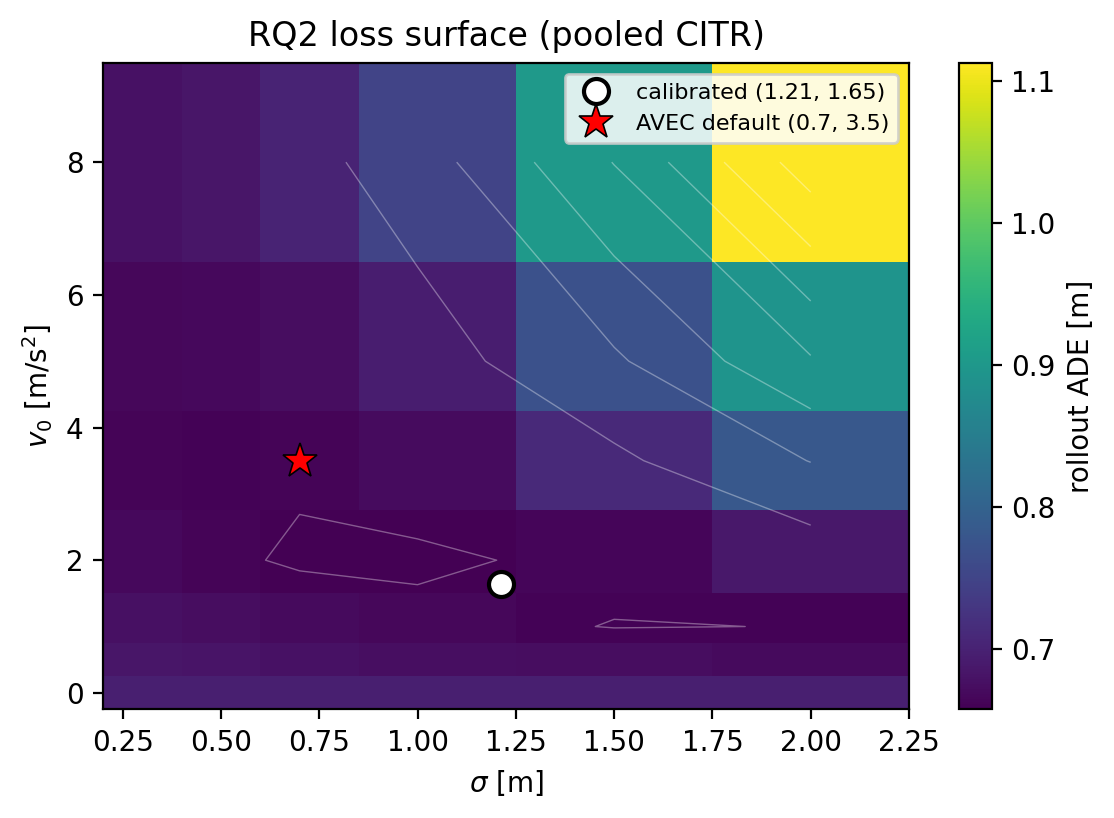
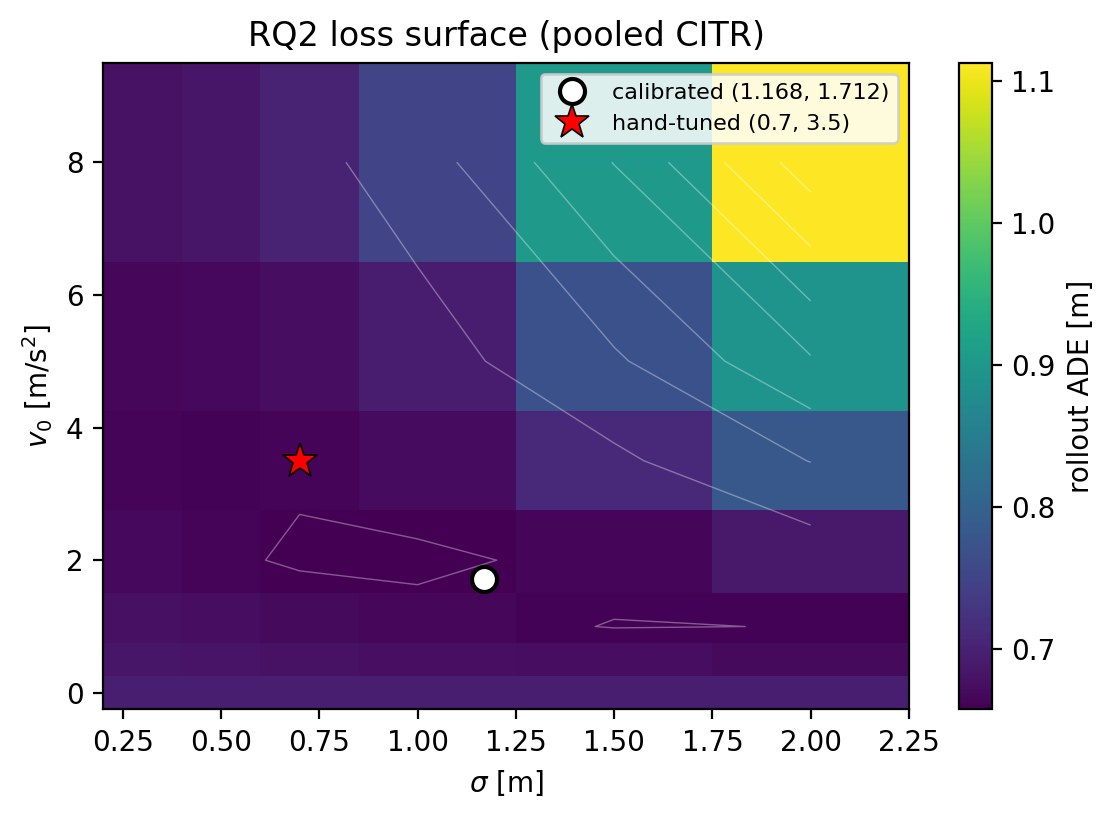
RQ2 loss-surface figures: de-brand legend + canonical calibrated marker
Independence hygiene for the thesis: the RQ2 (sigma, v0) loss-surface figures
carried "AVEC default/v0/sigma" baked into their legends, which the thesis
figure-independence rule forbids. Rename the hand-tuned reference label
"AVEC ..." -> "hand-tuned ..." (constant AVEC_DEFAULT -> HAND_TUNED), matching
the benchmark figures' English legends.

Also add an optional cal_point= to plot_single/plot_v0_profile/plot_sigma_profile
so the pooled body figures (rq2_loss_surface_all, rq2_v0_profile_all) annotate the
CANONICAL calibrated point (1.168, 1.712) -- the radius-0.30 LOCO 26-fold mean the
thesis body cites (outputs/rq2_evaluation/summary_loco.txt). That fold-mean is a
cross-validated aggregate, NOT the minimum of any single loss surface (the pooled
full-data fit stored in the npz is ~(1.21, 1.65), within 2% ADE along the flat
ridge), so it is overlaid as an annotation; cal_point is 3-decimal to match the
body text. The per-scenario grid and the per-objective identifiability surfaces
leave cal_point None and keep each surface's OWN fitted marker (their content).

Plot labels/annotations only: heatmaps, contours, profile curves, slices and the
2%-band are unchanged, and no computed artifact is touched (loss_surface_*.npz and
outputs/rq2_instrument_audit/surfaces/identifiability.csv byte-identical). 513 tests green.

Changed region(s): [[0.4578, 0.0917, 0.7935, 0.1834], [0.4273, 0.6724, 0.4883, 0.7335]]

diff --git a/examples/plot_rq2_loss_surface.py b/examples/plot_rq2_loss_surface.py
@@ -3,8 +3,8 @@
 
 Reads the ``loss_surface_{scenario}.npz`` files written by run_rq2_calibration.py
 and draws the rollout-ADE loss over the (sigma, v0) grid as a heatmap with the
-identifiability ridge visible, marking the calibrated (refined) optimum and the
-AVEC paper's hand-tuned (0.7, 3.5) for contrast. Two outputs:
+identifiability ridge visible, marking the canonical calibrated point and the
+hand-tuned (0.7, 3.5) for contrast. Two outputs:
 
 * ``rq2_loss_surface_all.png`` -- the pooled-CITR surface (paper body).
 * ``rq2_loss_surface_grid.png`` -- the four CITR scenarios in a 2x2 grid
@@ -35,7 +35,22 @@ logging.getLogger("matplotlib").setLevel(logging.WARNING)
 REPO = Path(__file__).resolve().parent.parent
 FIGS = REPO / "figs"
 
-AVEC_DEFAULT = (0.7, 3.5)  # paper's hand-tuned (sigma, v0)
+# The hand-tuned (sigma, v0) reference the calibration is contrasted against.
+# Shown as "hand-tuned" in every figure legend -- the figures must stay free of
+# conference / paper names (thesis figure-independence rule), so this label never
+# names its origin.
+HAND_TUNED = (0.7, 3.5)
+
+# Canonical calibrated (sigma, v0): the radius-0.30 LOCO 26-fold mean reported in
+# outputs/rq2_evaluation/summary_loco.txt (sigma=1.168 +/- 0.091, v0=1.712 +/-
+# 0.124). This is a CROSS-VALIDATED fold-mean, NOT the minimum of any single loss
+# surface -- the pooled full-data fit stored in the npz is ~(1.21, 1.65), within
+# 2% rollout-ADE of it along the flat ridge -- so it can only be OVERLAID as an
+# annotation on the pooled surface. It is what the thesis body cites as "the
+# calibrated point", so it is passed as ``cal_point=`` to the pooled body figures
+# ONLY; the per-scenario grid and the per-objective identifiability surfaces keep
+# each surface's OWN fitted marker (cal_point left None).
+CALIBRATED_REFINED = (1.168, 1.712)
 
 # "Indistinguishable" band: profile values within this relative margin of the
 # profile minimum (review C2). Shared by the v0/sigma profile plots and the
@@ -71,11 +86,19 @@ def load_surface(npz_path: Path) -> Dict[str, object]:
     }
 
 
-def plot_single(ax, surf: Dict[str, object], title: str, use_log: bool = False):
+def plot_single(ax, surf: Dict[str, object], title: str, use_log: bool = False,
+                cal_point: Optional[tuple] = None):
     """Draw one (sigma, v0) loss surface onto ``ax``; return the mappable.
 
     x-axis = sigma, y-axis = v0 (the (sigma, v0) notation order). ``loss`` is
     [S=sigma, V=v0], so it is transposed for pcolormesh, whose C is [rows=y, cols=x].
+
+    ``cal_point`` overrides the marked calibrated ``(sigma, v0)`` with an external
+    point (the canonical fold-mean :data:`CALIBRATED_REFINED` for the pooled body
+    figures); left None it marks this surface's OWN fitted optimum -- the correct
+    behaviour for the per-scenario grid and the per-objective identifiability
+    surfaces, whose story IS their per-surface fit. The heatmap/contour are never
+    affected, so the surface stays byte-consistent with the un-annotated version.
     """
     gs, gv = surf["grid_sigma"], surf["grid_v0"]
     loss = surf["loss"]  # masked [S, V]
@@ -95,11 +118,16 @@ def plot_single(ax, surf: Dict[str, object], title: str, use_log: bool = False):
     if loss.count() >= 4:
         ax.contour(gs, gv, loss.T, levels=8, colors="w", alpha=0.35, linewidths=0.5)
 
-    # calibrated (refined) optimum and the AVEC default for contrast.
-    ax.plot(surf["sigma"], surf["v0"], "o", mfc="white", mec="black", mew=1.5,
-            ms=9, label=f"calibrated ({surf['sigma']:.2f}, {surf['v0']:.2f})")
-    ax.plot(*AVEC_DEFAULT, "*", color="red", ms=13, mec="black", mew=0.6,
-            label=f"AVEC default ({AVEC_DEFAULT[0]}, {AVEC_DEFAULT[1]})")
+    # calibrated optimum (external override or this surface's own fit) and the
+    # hand-tuned reference for contrast.
+    # 3 decimals for the externally-supplied canonical point so the legend reads
+    # the exact figure the thesis body cites; 2 for a surface's own fitted marker.
+    cs, cv = cal_point if cal_point is not None else (surf["sigma"], surf["v0"])
+    p = 3 if cal_point is not None else 2
+    ax.plot(cs, cv, "o", mfc="white", mec="black", mew=1.5,
+            ms=9, label=f"calibrated ({cs:.{p}f}, {cv:.{p}f})")
+    ax.plot(*HAND_TUNED, "*", color="red", ms=13, mec="black", mew=0.6,
+            label=f"hand-tuned ({HAND_TUNED[0]}, {HAND_TUNED[1]})")
 
     ax.set_xlabel(r"$\sigma$ [m]")
     ax.set_ylabel(r"$v_0$ [m/s$^2$]")
@@ -108,14 +136,20 @@ def plot_single(ax, surf: Dict[str, object], title: str, use_log: bool = False):
 
 
 def plot_v0_profile(ax, surf: Dict[str, object],
-                    ylabel: str = "rollout ADE [m]") -> None:
+                    ylabel: str = "rollout ADE [m]",
+                    cal_point: Optional[tuple] = None) -> None:
     """1-D ADE-vs-v0 profile at the grid sigma nearest the fitted optimum.
 
     Makes the review-C2 identifiability explicit: along the ridge the rollout ADE
-    is nearly flat between the calibrated v0 (~1.7) and the AVEC hand-tuned v0=3.5,
+    is nearly flat between the calibrated v0 (~1.7) and the hand-tuned v0=3.5,
     so the data CANNOT distinguish them (the '<2% ADE' band). Shades the v0 span
     whose ADE is within 2% of the profile minimum. ``ylabel`` overrides the axis
     label when the surface holds a non-ADE objective (the multi-objective sweeps).
+
+    ``cal_point`` overrides ONLY the drawn calibrated-v0 line and its label (the
+    canonical fold-mean for the pooled body figure); the profiled SLICE and the
+    2%-band are always taken from this surface's own fit, so the plotted curve is
+    unchanged. Left None the line marks this surface's own fitted v0.
     """
     gs, gv = surf["grid_sigma"], surf["grid_v0"]
     loss = surf["loss"]  # masked [S, V]
@@ -136,10 +170,11 @@ def plot_v0_profile(ax, surf: Dict[str, object],
                    label="within 2% of min (indistinguishable)")
         ax.axvspan(float(v[band].min()), float(v[band].max()),
                    color="orange", alpha=0.10)
-    ax.axvline(surf["v0"], color="black", ls="--", lw=1.2,
-               label=f"calibrated v0={surf['v0']:.2f}")
-    ax.axvline(AVEC_DEFAULT[1], color="red", ls=":", lw=1.5,
-               label=f"AVEC v0={AVEC_DEFAULT[1]}")
+    cal_v0 = cal_point[1] if cal_point is not None else surf["v0"]
+    ax.axvline(cal_v0, color="black", ls="--", lw=1.2,
+               label=f"calibrated v0={cal_v0:.{3 if cal_point is not None else 2}f}")
+    ax.axvline(HAND_TUNED[1], color="red", ls=":", lw=1.5,
+               label=f"hand-tuned v0={HAND_TUNED[1]}")
     ax.set_xlabel(r"$v_0$ [m/s$^2$]")
     ax.set_ylabel(ylabel)
     # Title kept verbatim from the pre-sigma-profile version so re-rendering the
@@ -150,13 +185,18 @@ def plot_v0_profile(ax, surf: Dict[str, object],
 
 
 def plot_sigma_profile(ax, surf: Dict[str, object],
-                       ylabel: str = "rollout ADE [m]") -> None:
+                       ylabel: str = "rollout ADE [m]",
+                       cal_point: Optional[tuple] = None) -> None:
     """1-D loss-vs-sigma profile at the grid v0 nearest the fitted optimum.
 
     The sigma-axis counterpart of :func:`plot_v0_profile` (review 1.2-2: the S2
     discriminating cell is driven by the repulsion RANGE sigma, so sigma-side
     identifiability must be shown, not only the v0 side). Shades the sigma span
     within ``BAND_REL`` of the profile minimum.
+
+    ``cal_point`` overrides ONLY the drawn calibrated-sigma line and its label;
+    the profiled SLICE and band always come from this surface's own fit (curve
+    unchanged). Left None the line marks this surface's own fitted sigma.
     """
     gs, gv = surf["grid_sigma"], surf["grid_v0"]
     loss = surf["loss"]  # masked [S, V]
@@ -177,10 +217,11 @@ def plot_sigma_profile(ax, surf: Dict[str, object],
                    label="within 2% of min (indistinguishable)")
         ax.axvspan(float(s[band].min()), float(s[band].max()),
                    color="orange", alpha=0.10)
-    ax.axvline(surf["sigma"], color="black", ls="--", lw=1.2,
-               label=f"calibrated sigma={surf['sigma']:.2f}")
-    ax.axvline(AVEC_DEFAULT[0], color="red", ls=":", lw=1.5,
-               label=f"AVEC sigma={AVEC_DEFAULT[0]}")
+    cal_sigma = cal_point[0] if cal_point is not None else surf["sigma"]
+    ax.axvline(cal_sigma, color="black", ls="--", lw=1.2,
+               label=f"calibrated sigma={cal_sigma:.{3 if cal_point is not None else 2}f}")
+    ax.axvline(HAND_TUNED[0], color="red", ls=":", lw=1.5,
+               label=f"hand-tuned sigma={HAND_TUNED[0]}")
     ax.set_xlabel(r"$\sigma$ [m]")
     ax.set_ylabel(ylabel)
     ax.set_title(rf"loss vs $\sigma$ at $v_0$={gv[vi]:.2f} (identifiability)")
@@ -294,7 +335,10 @@ def main():
     else:
         surf = load_surface(all_npz)
         fig, ax = plt.subplots(figsize=(6.5, 4.2))
-        mesh = plot_single(ax, surf, "RQ2 loss surface (pooled CITR)", use_log=args.log)
+        # Pooled body figure: annotate the canonical cross-validated calibrated
+        # point (not this full-data surface's own minimum) -- see CALIBRATED_REFINED.
+        mesh = plot_single(ax, surf, "RQ2 loss surface (pooled CITR)",
+                           use_log=args.log, cal_point=CALIBRATED_REFINED)
         if mesh is not None:
             fig.colorbar(mesh, ax=ax, label="rollout ADE [m]")
         ax.legend(loc="upper right", fontsize=8, framealpha=0.85)
@@ -305,7 +349,7 @@ def main():
 
         # --- (a2) v0 identifiability profile (review C2) ---
         fig2, ax2 = plt.subplots(figsize=(6.0, 4.0))
-        plot_v0_profile(ax2, surf)
+        plot_v0_profile(ax2, surf, cal_point=CALIBRATED_REFINED)
         out2 = out_dir / "rq2_v0_profile_all.png"
         fig2.savefig(out2, dpi=200, bbox_inches="tight")
         plt.close(fig2)
